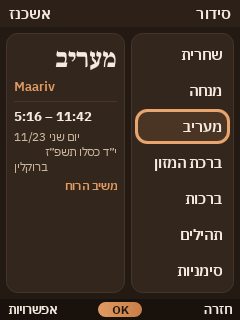
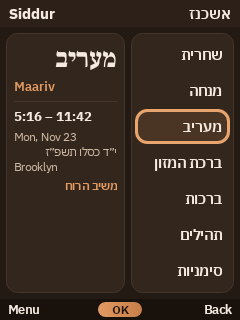
English screenshots

diff --git a/app/src/test/java/com/pureflip/siddur/SettingsScreenshotTest.java b/app/src/test/java/com/pureflip/siddur/SettingsScreenshotTest.java
@@ -43,9 +43,12 @@ public class SettingsScreenshotTest {
         dir.mkdirs();
     }
 
-    private SettingsActivity open(String theme, String lang) {
+    /** Repository screenshots are in English (UI language); tefillah text and liturgical names stay Hebrew. */
+    private static final String SHOT_LANG = "en";
+
+    private SettingsActivity open(String theme, String ignoredLang) {
         prefs.theme(theme);
-        prefs.lang(lang);
+        prefs.lang(SHOT_LANG);
         // A flip phone has no touch screen: keep the window out of touch mode so rows can take focus.
         androidx.test.platform.app.InstrumentationRegistry.getInstrumentation().setInTouchMode(false);
         SettingsActivity a = Robolectric.buildActivity(SettingsActivity.class, new Intent(ctx, SettingsActivity.class)).setup().get();
@@ -122,7 +125,7 @@ public class SettingsScreenshotTest {
     /** The new themes on the other screens (home, reader), for a visual check. */
     @Test
     public void otherScreens() throws Exception {
-        prefs.lang("he");
+        prefs.lang(SHOT_LANG);
         String[][] cases = {{"forest", "list"}, {"cream", "toc"}, {"ar_dark", "carousel"}, {"coffee", "split"}};
         for (String[] c : cases) {
             prefs.theme(c[0]);
